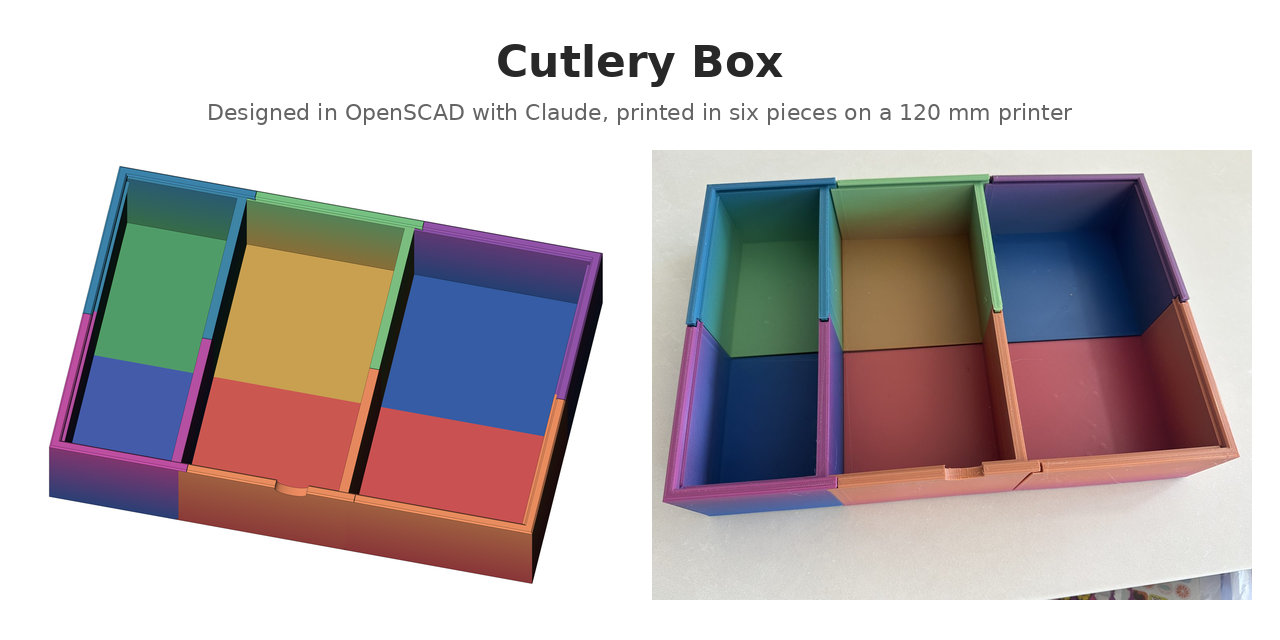
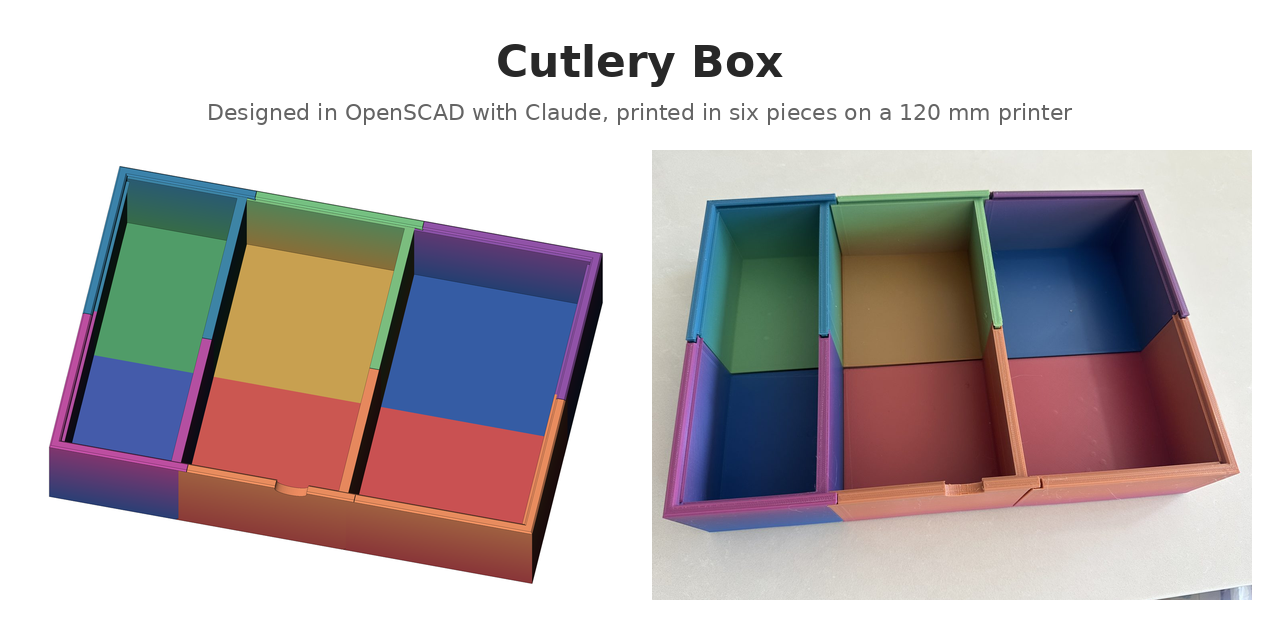
Apply review fixes to captions, claims and tools
- Captions: hinge-wall caption covers all four panels; v5 and v19
  described as the scad files show them.
- Claims: 184 credited to packing on edge, "our usual" cutlery, no
  inferred conditions or added adjectives.
- .gitignore: only the top-level renders/ is ignored.
- make_social_preview.py: font fallback, docstring matches the commands
  used; preview recropped.

Claude-Session: https://claude.ai/code/session_012aPeyjSX6YEt2x8DFvdxWD

Changed region(s): [[0.5, 0.25, 0.9688, 0.8438], [0.8125, 0.875, 1.0, 0.9375], [0.8125, 0.4062, 0.8438, 0.4375]]

diff --git a/tools/make_social_preview.py b/tools/make_social_preview.py
@@ -1,11 +1,13 @@
 #!/usr/bin/env python3
 """Compose the GitHub social preview (1280 x 640): the model on the left, the
-printed box on the right, under a one-line title. Needs Pillow.
+printed box on the right, under a one-line title. Needs Pillow; uses DejaVu
+Sans if installed, else Pillow's default font.
 
-  python3 tools/render_stl.py render.png stl/ --px 1400 --elev 50 --azim 15 \\
+  python3 tools/render_stl.py render.png stl/ --px 1400 --elev 58 --azim 12 \\
       --colors '#c79a4c:#72bb7e' '#c4524f:#e2895c' '#4f9a62:#3a7fa6' \\
                '#3c5aa6:#b84c9c' '#2f5aa0:#8d50a3' '#c24c50:#e2895c'
-  python3 tools/make_social_preview.py render.png photos/finished-empty.jpg docs/social-preview.png
+  python3 tools/make_social_preview.py render.png photos/finished-empty.jpg docs/social-preview.png \\
+      --crop 95 0 1595 1125
 
 The --colors order follows the files in stl/: fork A, fork B, knife A, knife B,
 spoon A, spoon B, each as BOTTOM:TOP, picked by eye from the photos. Take the
@@ -58,8 +60,13 @@ def main():
     out.paste(fit(r, PW, PH, bg), (gap, TOP))
     out.paste(p, (2 * gap + PW, TOP))
     d = ImageDraw.Draw(out)
-    d.text((W // 2, 62), a.title, fill=(40, 40, 40), font=ImageFont.truetype(FONT_B, 44), anchor='mm')
-    d.text((W // 2, 112), a.subtitle, fill=(100, 100, 100), font=ImageFont.truetype(FONT, 22), anchor='mm')
+    def font(path, size):
+        try:
+            return ImageFont.truetype(path, size)
+        except OSError:
+            return ImageFont.load_default(size)
+    d.text((W // 2, 62), a.title, fill=(40, 40, 40), font=font(FONT_B, 44), anchor='mm')
+    d.text((W // 2, 112), a.subtitle, fill=(100, 100, 100), font=font(FONT, 22), anchor='mm')
     out.save(a.out, optimize=True)
     print('wrote', a.out, out.size)
 

diff --git a/docs/BUILD_LOG.md b/docs/BUILD_LOG.md
@@ -85,13 +85,13 @@ Versions 5 to 23 added features for a flat clear lid, all cut into the top of th
 - **A finger notch** between the clips, where your thumb goes to lift the lid, with the rail cut away there so a fingertip can get under the edge. Until v20 there was one clip and a small finger scallop instead.
 
 ![The hinge wall in four versions: a plain wall, then the groove with its round channel and angled opening](img/renders/hinge-wall-progression.png)
-*The hinge wall, seen at the edge where the piece was cut, in the final shape (v24 and v25): the round channel the lid edge sits in, and the angled opening above it.*
+*The hinge wall, seen at the edge where the piece was cut. The Python script and v4 have a plain wall; v24 and v25 have the final groove: the round channel the lid edge sits in, and the angled opening above it.*
 
 ![The hinge groove in six versions from June 21 to 22, seen at the cut edge](img/renders/hinge-groove-progression.png)
-*How the groove got there, the same wall in OpenSCAD renders. v4 has no groove. v5 cuts a first short groove and v6 makes it one round channel along the whole wall, open at the rim. v8 drops it 2 mm so the rim covers it and should hold the lid's edge when the lid is raised. v9 sets it back 2 mm behind a slot so that cover actually holds, and v10 opens it above with one straight ramp so the lid can swing up without catching.*
+*How the groove got there, the same wall in OpenSCAD renders. v4 has no groove. v5 cuts it in three short segments, one per compartment, stopping short of the joints, so here it barely shows. v6 makes it one round channel along the whole wall, open at the rim. v8 drops it 2 mm so the rim covers it and should hold the lid's edge when the lid is raised. v9 sets it back 2 mm behind a slot so that cover actually holds, and v10 opens it above with one straight ramp so the lid can swing up without catching.*
 
 ![The finger notch and clips in four versions from June 22](img/renders/notch-progression.png)
-*The clip wall, seen from inside. v19 still has the first design, a small finger scallop below the rail. v20 replaces it with a notch cut through the rim between two clips, v21 arches the notch, and v22 cuts the rail away under it.*
+*The clip wall, seen from inside. v19 still has the first design: one wider clip and a small finger scallop. v20 replaces it with a notch cut through the rim between two clips, v21 arches the notch, and v22 cuts the rail away under it.*
 
 | The finger notch and the two clips, rendered | The same notch, printed |
 |---|---|
@@ -171,7 +171,7 @@ Even seated, the friction fit wasn't enough for a box that gets picked up and mo
 
 **Columns didn't work in practice.** The box was designed for three columns per compartment, each a stack of cutlery lying face up: knives in the narrowest compartment, forks in the middle, spoons in the widest. Whenever the box was moved, the stacks wobbled and the cutlery slid around.
 
-**Packing it like the packaging.** The packaging gave me the idea: it lays the pieces on edge, nested tightly together, and that turned out to be very stable and space-efficient. Once I saw how much more fit that way, I stopped aiming for the same amount of each type and split the space by how much we use each:
+**Packing it like the packaging.** The packaging gave me the idea: it lays the pieces on edge, nested tightly together, and that turned out to be very space-efficient. Once I saw how much more fit that way, I stopped aiming for the same amount of each type and split the space by how much we use each:
 
 - **Forks**, which we use most, went into the widest compartment, on edge in two rows.
 - **Spoons**, which we use least, went into the narrowest, also on edge in two rows.
@@ -190,7 +190,7 @@ Even seated, the friction fit wasn't enough for a box that gets picked up and mo
 
 Each type also changed compartment, so the per-type change mixes the new packing with the new compartment size. The total is the fairer comparison.
 
-This split suits how we use it; other layouts are worth trying. If you use fewer knives, they could go in the narrowest compartment and the spoons in the middle, where far more spoons would fit. I didn't, because reaching into the narrowest compartment for knives lying almost flat was awkward. And whichever type you use most, forks or knives, can have the widest compartment.
+This split suits how we use it; other layouts are worth trying. Knives could also go in the narrowest compartment and spoons in the middle, where far more spoons would fit. I didn't, because reaching into the narrowest compartment for knives lying almost flat was awkward. And whichever type you use most, forks or knives, can have the widest compartment.
 
 **A second one.** My brother had been looking for the same thing, so I printed one for him too.
 

diff --git a/README.md b/README.md
@@ -16,7 +16,7 @@ What the process taught: a model that looks right on screen is not yet a part th
 
 ## What it does
 
-- Holds 184 pieces of standard disposable cutlery (up to about 190 mm long): 48 spoons, 56 forks and 80 knives, one type per compartment
+- Holds 184 pieces of our usual disposable cutlery (up to about 190 mm long): 48 spoons, 56 forks and 80 knives, one type per compartment
 - Prints on a small printer with a 120 × 120 × 120 mm build area, with no support material (the throwaway scaffolding printers add under overhangs)
 - Assembles into one box with no screws: the joints are hidden inside the walls, leaving only straight seam lines
 - Lets you change the compartment sizes and height in one file to fit other cutlery
@@ -27,7 +27,7 @@ What the process taught: a model that looks right on screen is not yet a part th
 - **Hidden dovetails behind straight edges.** Vertical sliding dovetails sit inside the 6 mm walls, and a cap covers each joint at the top so the rim shows one straight seam line. Pieces drop in from above.
 - **Printable without supports.** The undersides of the joint caps slope at 50°, the base seams use 45° wedges, and the few remaining overhangs are short enough to print in mid-air.
 - **Tuned on printed coupons, then finished by hand.** The joint fit was dialled in with coupons (small test pieces) at 0.05–0.20 mm of gap on each side of the joint. Fit still varied from print to print at the same settings, so the final assembly needed a Dremel and plastic glue.
-- **Sized from real cutlery, then re-used differently.** Compartments were sized for three face-up columns of each type, from measured cutlery. Those wobbled when the box was moved. Packing the cutlery on edge the way it comes packaged, with the most-used type in the widest compartment, holds 184 pieces instead of 120 and stays put.
+- **Sized from real cutlery, then re-used differently.** Compartments were sized for three face-up columns of each type, from measured cutlery. Those wobbled when the box was moved. Packing the cutlery on edge the way it comes packaged holds 184 pieces instead of 120 and stays put; the most-used type now gets the widest compartment.
 - **Tried and dropped:** a Python generator that wrote meshes directly (it couldn't cut one solid cleanly with another), flat base joints (they trapped support material), and a lid (see Known limitations).
 
 ## Build log

diff --git a/.claude/CLAUDE.md b/.claude/CLAUDE.md
@@ -31,7 +31,7 @@ A three-compartment box for disposable knives, forks and spoons. It was designed
 - **Process:** keep each change on one PR branch. End each round with one short list of things only he can do, and no TODOs buried in the docs.
 - **Commits:** author `meirmsn-agent <340873665+meirmsn-agent@users.noreply.github.com>`, with the trailer `Co-authored-by: Meir Messingher Lang <meirmsn@users.noreply.github.com>`.
 - **Images:** strip all metadata before committing (the owner's phone photos carry GPS), and crop out any fingertip shown sharply enough to copy a fingerprint from (blurred or side-on fingers are fine). IMG_8093–8096 (coupons held between sharp fingertips) were left out for that reason, and IMG_8079, 8082, 8083, 8090, 8091 and 8106 were cropped.
-- **Renders:** neutral grey (`#c9ccd1` on white), as the model looked while designing. Colour appears only in photos. The piece colours were never a design decision, and the prints use gradient filament. The one exception, at his request: the social preview's render is in the print colours (`render_stl.py --colors`).
+- **Renders:** neutral grey (`#c9ccd1` on white), as the model looked while designing. Colour appears only in photos. The piece colours were never a design decision, and the prints use gradient filament. The one exception, at his request: the social preview's render is in the print colours (`render_stl.py --colors`). The two OpenSCAD strips (`hinge-groove-progression.png`, `notch-progression.png`) are greyscale conversions of his renders, so they are darker than the `render_stl.py` ones.
 - **Dates:** design dates come from file timestamps in US Pacific time. The notes in `archive/notes/` are dated in UTC, so some read a day later.
 
 ## Facts from the owner that are not in the archive notes
